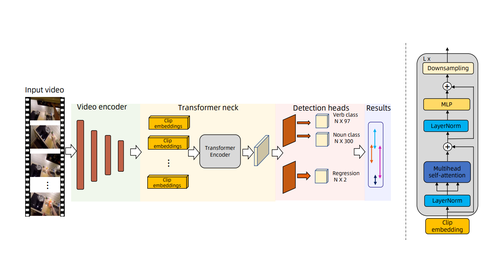
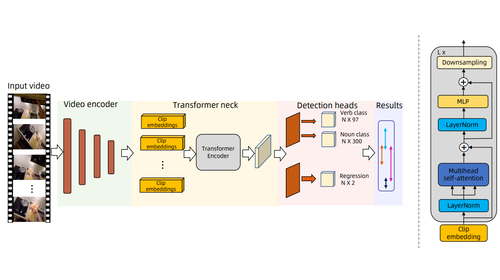
update papers

Changed region(s): [[0.0, 0.1429, 1.0, 0.8857]]

diff --git a/_sass/_sidebar.scss b/_sass/_sidebar.scss
@@ -92,8 +92,8 @@
   }
 
   img {
-    width: 175px;
-    height: 100px;
+    width: 350px;
+    height: 200px;
     object-fit: cover; // 保证图片不变形
     border-radius: 0 !important;
     // border-radius: 50%;

diff --git a/_pages/about.md b/_pages/about.md
@@ -32,6 +32,7 @@ My research interests lie at the nexus of AI safety and visual understanding. I 
 - *2025.05*: 🎉 Our paper [WorldSimBench](https://arxiv.org/pdf/2410.18072) has been accepted by ICML 2025.
 - *2025.02*: 🎉 Our paper [T2ISafety](https://openaccess.thecvf.com/content/CVPR2025/papers/Li_T2ISafety_Benchmark_for_Assessing_Fairness_Toxicity_and_Privacy_in_Image_CVPR_2025_paper.pdf) has been accepted by CVPR 2025. 
 - *2024.05*: 🎉 Our paper [SALAD-Bench](https://aclanthology.org/2024.findings-acl.235.pdf) and [PsySafe](https://aclanthology.org/2024.acl-long.812.pdf) have been accepted by ACL 2024
+- *2024.03*: We release an easy-to-use Python framework to generate adversarial jailbreak prompts at [website](http://easyjailbreak.org/).
 - *2023*: 🎉 Our paper [RenderIH](https://openaccess.thecvf.com/content/ICCV2023/papers/Li_RenderIH_A_Large-Scale_Synthetic_Dataset_for_3D_Interacting_Hand_Pose_ICCV_2023_paper.pdf) has been accepted by ICCV 2023.
 - *2022.05*: 🎉🎉 We rank 1st at the Action Detection track of [EPIC@CVPR2022 Workshop](https://epic-kitchens.github.io/2022#results)
 
@@ -84,6 +85,22 @@ Yiran Qin<sup>*</sup>, Zhelun Shi<sup>*</sup>, Jiwen Yu, Xijun Wang, Enshen Zhou
 ICML 2025
 
 [Paper](https://arxiv.org/pdf/2410.18072) [Project](https://iranqin.github.io/WorldSimBench.github.io/) [ImageGuard](https://huggingface.co/OpenSafetyLab/ImageGuard)
+
+</div>
+</div>
+
+<!-- ------------------------------------------------------------- -->
+
+<div class='paper-box'><div class='paper-box-image'><div><div class="badge">Preprint</div><img src='images/paper_imgs/iter_decoding.png' alt="sym" width="100%"></div></div>
+<div class='paper-box-text' markdown="1">
+
+**Iterative value function optimization for guided decoding**
+
+Zhenhua Liu<sup>*</sup>, **Lijun Li**<sup>*</sup>, Ruizhe Chen, Yuxian Jiang, Tong Zhu, Zhaochen Su, Wenliang Chen, Jing Shao<sup>‡</sup>
+
+Preprint, 2025
+
+[Paper](https://arxiv.org/pdf/2503.02368)
 
 </div>
 </div>
@@ -152,6 +169,39 @@ ACL 2024 Findings
 </div>
 </div>
 
+<div class='paper-box'><div class='paper-box-image'><div><div class="badge">Preprint</div><img src='images/paper_imgs/easyjailbreak.png' alt="sym" width="100%"></div></div>
+<div class='paper-box-text' markdown="1">
+
+**EasyJailbreak: A Unified Framework for Jailbreaking Large Language Models**
+
+Weikang Zhou, Xiao Wang, Limao Xiong, Han Xia, Yingshuang Gu, Mingxu Chai, Fukang Zhu, Caishuang Huang, Shihan Dou, Zhiheng Xi, Rui Zheng, Songyang Gao, Yicheng Zou, Hang Yan, Yifan Le, Ruohui Wang, **Lijun Li**, Jing Shao, Tao Gui, Qi Zhang, Xuanjing Huang
+
+Preprint, 2024
+
+[Paper](https://arxiv.org/pdf/2403.12171) [Project](http://easyjailbreak.org/) [Code](https://github.com/EasyJailbreak/EasyJailbreak)
+
+</div>
+</div>
+
+<!-- ------------------------------------------------------------- -->
+
+<div class='paper-box'><div class='paper-box-image'><div><div class="badge">Preprint</div><img src='images/paper_imgs/ch3ef.png' alt="sym" width="100%"></div></div>
+<div class='paper-box-text' markdown="1">
+
+**Assessment of multimodal large language models in alignment with human values**
+
+Zhelun Shi, Zhipin Wang, Hongxing Fan, Zaibin Zhang, **Lijun Li**, Yongting Zhang, Zhenfei Yin, Lu Sheng, Yu Qiao, Jing Shao
+
+Preprint, 2024
+
+[Paper](https://arxiv.org/pdf/2403.17830) [Project](https://openlamm.github.io/ch3ef/) [Code](https://github.com/OpenGVLab/LAMM)
+
+</div>
+</div>
+
+<!-- ------------------------------------------------------------- -->
+
+
 <!-- ------------------------------------------------------------- -->
 
 <div class='paper-box'><div class='paper-box-image'><div><div class="badge">ICCV 2023</div><img src='images/paper_imgs/renderih.png' alt="sym" width="100%"></div></div>
@@ -177,7 +227,7 @@ ICCV 2023
 
 **Lijun Li**, Li'an Zhuo, Bang Zhang
 
-Winning solution for Action Detection Track of EPIC@CVPR2022
+🎖Winning solution for Action Detection Track of EPIC@CVPR2022
 
 [Paper](https://arxiv.org/pdf/2206.10080)
 
